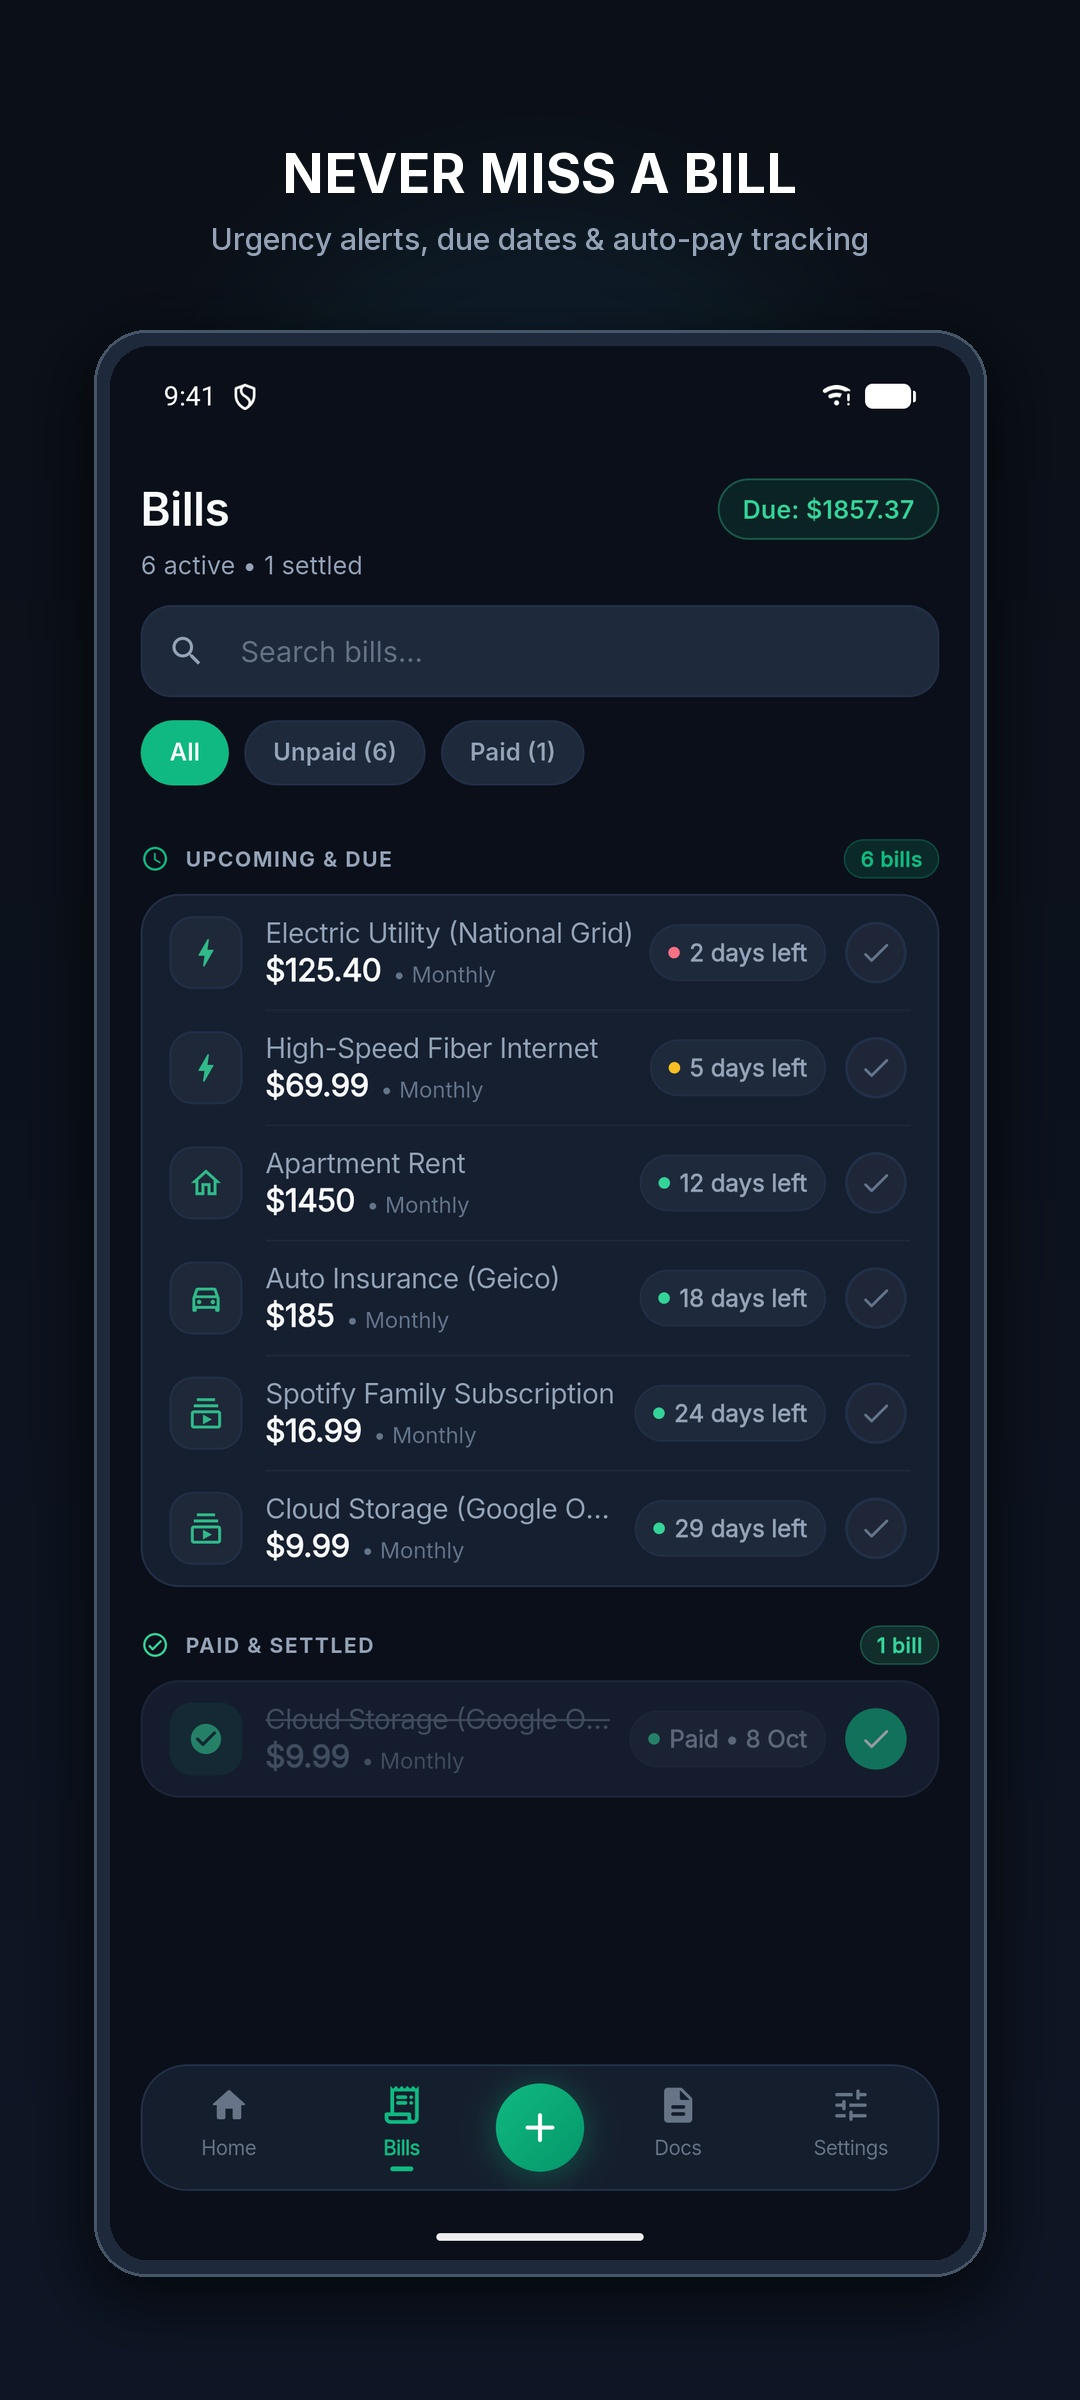
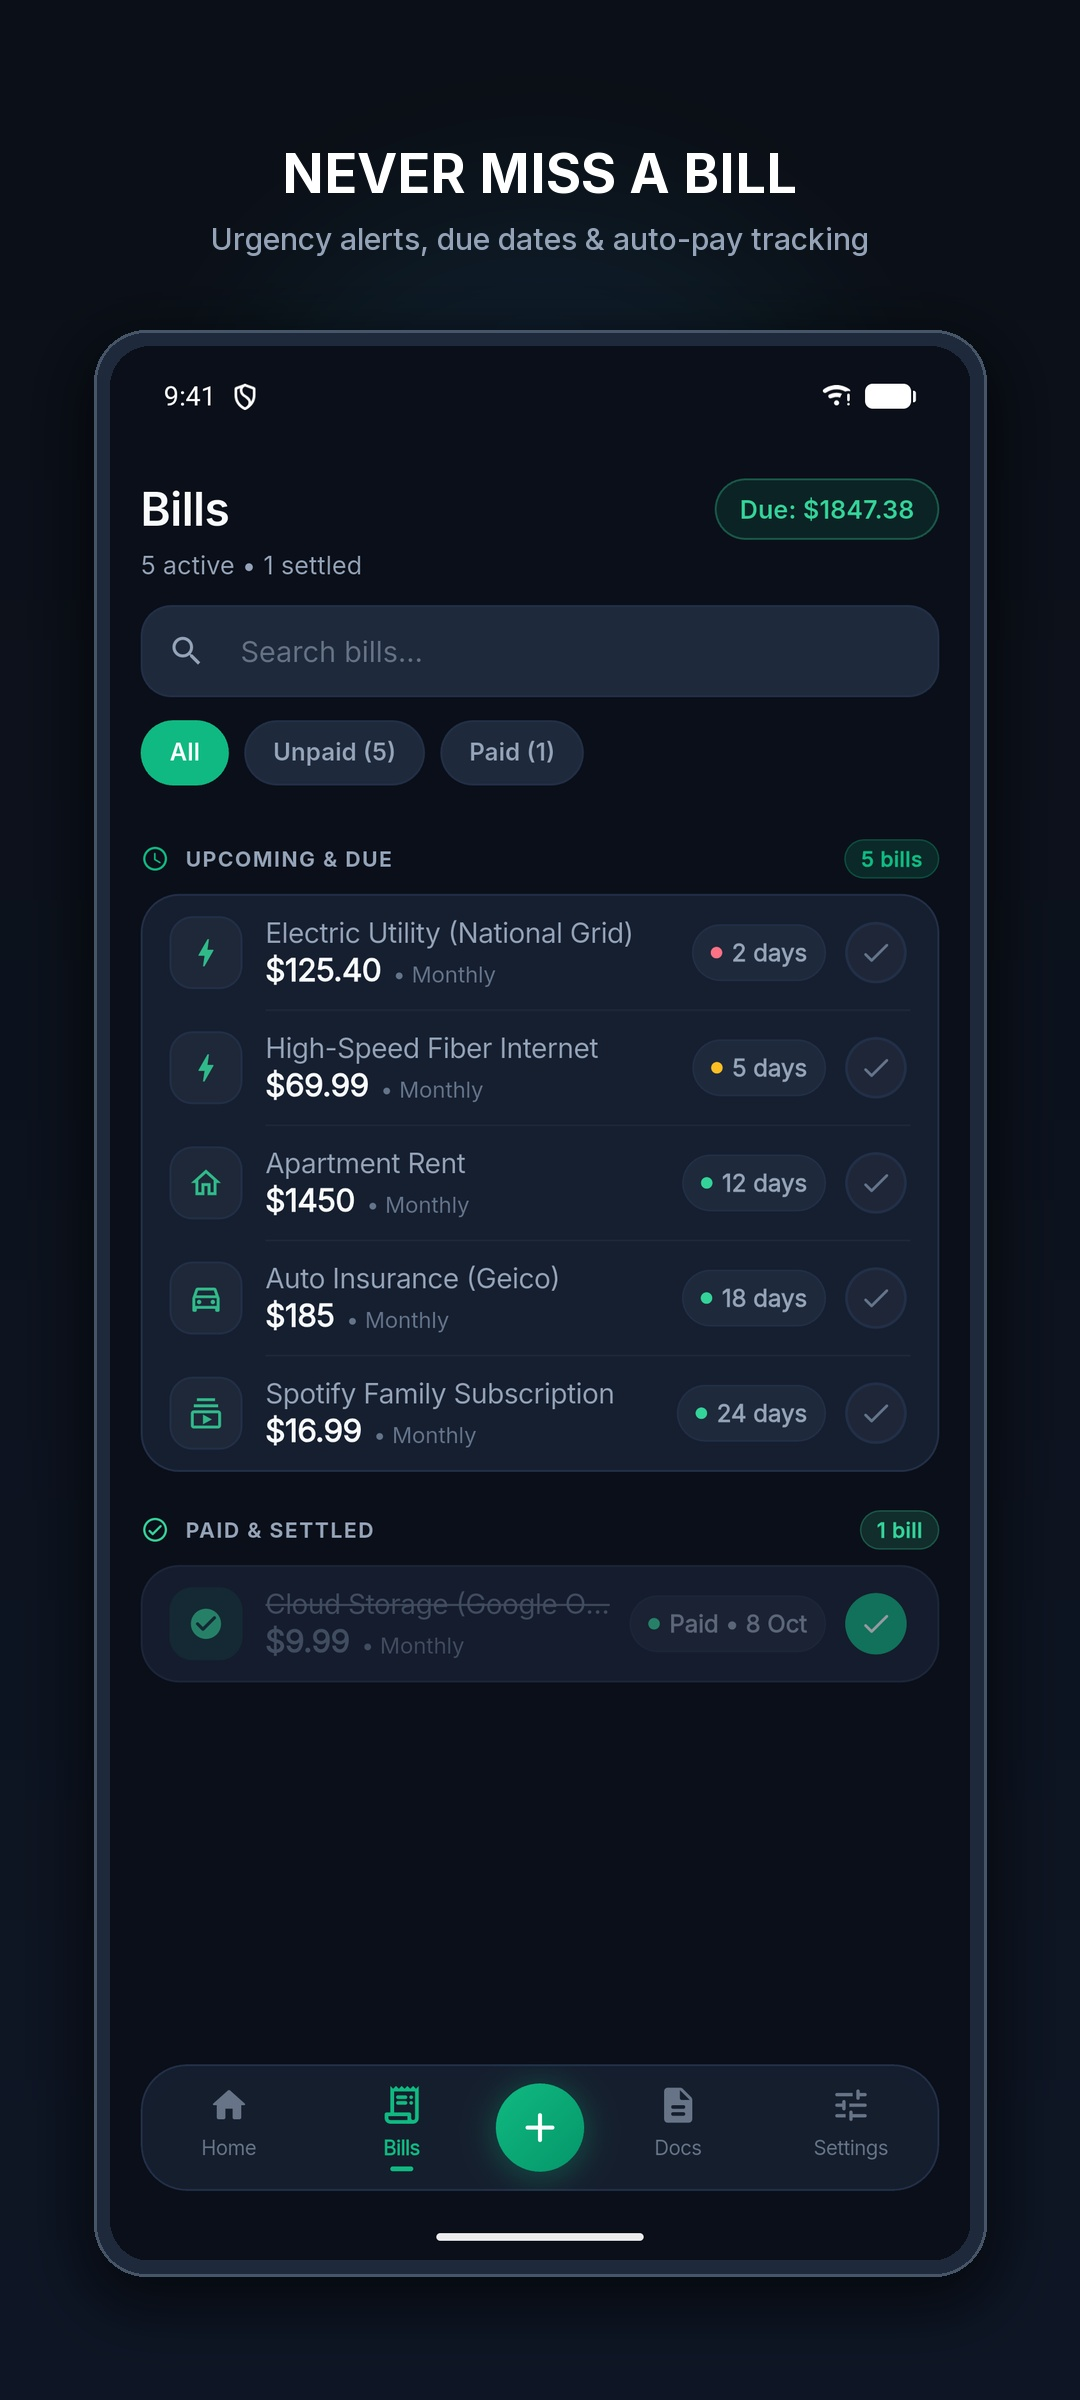
feat: attach bill invoice in details showcase, clean remaining days badge to ' days', bump version to 1.0.1+42

diff --git a/lib/screens/item_detail/item_detail_attachments.dart b/lib/screens/item_detail/item_detail_attachments.dart
@@ -15,10 +15,12 @@ import '../../utils/logger.dart';
 
 class ItemDetailAttachments extends ConsumerStatefulWidget {
   final VaultItem item;
+  final bool showHeader;
 
   const ItemDetailAttachments({
     super.key,
     required this.item,
+    this.showHeader = true,
   });
 
   @override
@@ -317,11 +319,12 @@ class _ItemDetailAttachmentsState extends ConsumerState<ItemDetailAttachments> {
     final cleanName = p.basename(rawName.replaceAll('\\', '/'));
     final absolutePath = '$_attachmentsDirPath/$cleanName';
     final cloudId = index < widget.item.cloudFileIds.length ? widget.item.cloudFileIds[index] : null;
-    final fileExists = File(absolutePath).existsSync();
+    final fileExists = File(absolutePath).existsSync() || File(rawName).existsSync();
+    final effectivePath = File(absolutePath).existsSync() ? absolutePath : rawName;
     final isDownloading = _downloadingPaths[cleanName] == true;
 
     return GestureDetector(
-      onTap: () => _handleAttachmentTap(context, absolutePath, cloudId, cleanName),
+      onTap: () => _handleAttachmentTap(context, effectivePath, cloudId, cleanName),
       child: Stack(
         children: [
           Container(
@@ -334,10 +337,10 @@ class _ItemDetailAttachmentsState extends ConsumerState<ItemDetailAttachments> {
               ),
             ),
             child: fileExists
-                ? _buildAttachmentPreview(absolutePath)
+                ? _buildAttachmentPreview(effectivePath)
                 : Opacity(
                     opacity: 0.5,
-                    child: _buildAttachmentPreview(absolutePath),
+                    child: _buildAttachmentPreview(effectivePath),
                   ),
           ),
           if (!fileExists)
@@ -361,6 +364,37 @@ class _ItemDetailAttachmentsState extends ConsumerState<ItemDetailAttachments> {
                 ),
               ),
             ),
+          // Caption overlay with file name
+          Positioned(
+            left: 0,
+            right: 0,
+            bottom: 0,
+            child: Container(
+              padding: const EdgeInsets.symmetric(horizontal: 8, vertical: 4),
+              decoration: BoxDecoration(
+                color: Colors.black.withValues(alpha: 0.7),
+                borderRadius: const BorderRadius.vertical(bottom: Radius.circular(12)),
+              ),
+              child: Row(
+                children: [
+                  const Icon(Icons.description_outlined, size: 11, color: Colors.white70),
+                  const SizedBox(width: 4),
+                  Expanded(
+                    child: Text(
+                      cleanName,
+                      maxLines: 1,
+                      overflow: TextOverflow.ellipsis,
+                      style: const TextStyle(
+                        color: Colors.white,
+                        fontSize: 9.5,
+                        fontWeight: FontWeight.w600,
+                      ),
+                    ),
+                  ),
+                ],
+              ),
+            ),
+          ),
         ],
       ),
     );
@@ -375,11 +409,13 @@ class _ItemDetailAttachmentsState extends ConsumerState<ItemDetailAttachments> {
     return Column(
       crossAxisAlignment: CrossAxisAlignment.start,
       children: [
-        Text(
-          'ATTACHMENTS (${widget.item.attachedFiles.length})',
-          style: AppTheme.labelCapsStyle(context),
-        ),
-        const SizedBox(height: 12),
+        if (widget.showHeader) ...[
+          Text(
+            'ATTACHMENTS (${widget.item.attachedFiles.length})',
+            style: AppTheme.labelCapsStyle(context),
+          ),
+          const SizedBox(height: 12),
+        ],
         GridView.builder(
           shrinkWrap: true,
           physics: const NeverScrollableScrollPhysics(),

diff --git a/lib/widgets/vault_item_tile.dart b/lib/widgets/vault_item_tile.dart
@@ -61,9 +61,9 @@ class VaultItemTile extends ConsumerWidget {
     }
     if (days == 0) return 'Today';
     if (days == 1) return 'Tomorrow';
-    // Până la 3 luni -> '14 days left', '23 days left', etc.
+    // Până la 3 luni -> '14 days', '23 days', etc.
     if (days <= 90) {
-      return '$days days left';
+      return days == 1 ? '1 day' : '$days days';
     }
     // Peste 3 luni, până la 1 an -> '3 months', '11 months', etc.
     if (days <= 365) {

diff --git a/lib/screens/item_detail_screen.dart b/lib/screens/item_detail_screen.dart
@@ -162,7 +162,7 @@ class _ItemDetailScreenState extends ConsumerState<ItemDetailScreen> {
                       ],
                     ),
                     const SizedBox(height: AppSpacing.md),
-                    ItemDetailAttachments(item: currentItem),
+                    ItemDetailAttachments(item: currentItem, showHeader: false),
                   ],
                 ),
               ),

diff --git a/lib/services/vault_guest_manager.dart b/lib/services/vault_guest_manager.dart
@@ -156,6 +156,8 @@ class VaultGuestManager {
         ..amount = 125.40
         ..dueDate = now.add(const Duration(days: 2))
         ..recurrence = 'Monthly'
+        ..notes = 'Account #8492-3011-948 • Monthly electric utility charges.'
+        ..attachedFiles = ['invoice_electric_oct.jpg']
         ..isPaid = false
         ..isSample = true
         ..ownerId = ownerId,

diff --git a/tool/generate_sample_invoice.py b/tool/generate_sample_invoice.py
@@ -1,0 +1,100 @@
+import os
+from PIL import Image, ImageDraw, ImageFont
+
+def generate_invoice(output_path):
+    W, H = 800, 1100
+    img = Image.new("RGB", (W, H), (248, 250, 252))
+    draw = ImageDraw.Draw(img)
+
+    # Fonts
+    font_dir = r"d:\Aplicatii\DueVault_app\google_fonts"
+    font_bold_path = os.path.join(font_dir, "Inter-Bold.ttf")
+    font_reg_path = os.path.join(font_dir, "Inter-Medium.ttf")
+    
+    font_h1 = ImageFont.truetype(font_bold_path, 32)
+    font_h2 = ImageFont.truetype(font_bold_path, 22)
+    font_body = ImageFont.truetype(font_reg_path, 18)
+    font_body_bold = ImageFont.truetype(font_bold_path, 18)
+    font_sm = ImageFont.truetype(font_reg_path, 14)
+    font_total = ImageFont.truetype(font_bold_path, 34)
+
+    # Document border / sheet margin
+    draw.rounded_rectangle([20, 20, W - 20, H - 20], radius=16, fill=(255, 255, 255), outline=(226, 232, 240), width=2)
+
+    # Header Banner
+    draw.rounded_rectangle([40, 40, W - 40, 140], radius=12, fill=(15, 23, 42)) # Slate 900
+    # Emerald accent bar
+    draw.rounded_rectangle([40, 40, 56, 140], radius=6, fill=(16, 185, 129))
+
+    draw.text((75, 58), "NATIONAL GRID", font=font_h1, fill=(255, 255, 255))
+    draw.text((75, 98), "ELECTRIC SERVICE STATEMENT • MONTHLY BILL", font=font_sm, fill=(148, 163, 184))
+
+    # Statement Details Box
+    draw.text((50, 170), "Statement Date: Oct 02, 2026", font=font_body, fill=(71, 85, 105))
+    draw.text((50, 200), "Account Number: 8492-3011-948", font=font_body_bold, fill=(15, 23, 42))
+    draw.text((50, 230), "Address: 742 Evergreen Terr.", font=font_body, fill=(71, 85, 105))
+
+    # Due date badge on the right
+    draw.rounded_rectangle([W - 320, 170, W - 50, 260], radius=10, fill=(254, 242, 242), outline=(254, 202, 202), width=1)
+    draw.text((W - 300, 185), "DUE DATE", font=font_sm, fill=(220, 38, 38))
+    draw.text((W - 300, 210), "October 12, 2026", font=font_h2, fill=(185, 28, 28))
+
+    # Divider
+    draw.line([(50, 280), (W - 50, 280)], fill=(226, 232, 240), width=2)
+
+    # Charges Breakdown Table Header
+    draw.rounded_rectangle([50, 300, W - 50, 345], radius=8, fill=(241, 245, 249))
+    draw.text((70, 312), "DESCRIPTION", font=font_body_bold, fill=(71, 85, 105))
+    draw.text((W - 170, 312), "AMOUNT", font=font_body_bold, fill=(71, 85, 105))
+
+    # Table Rows
+    rows = [
+        ("Base Delivery Service (Electric Grid Maintenance)", "$38.50"),
+        ("Energy Distribution Rate (Meter #99402)", "$15.70"),
+        ("Electric Supply Charges (412 kWh @ $0.1483)", "$61.10"),
+        ("Clean Energy Transition Surcharge", "$4.20"),
+        ("State & Local Regulatory Taxes", "$5.90"),
+    ]
+
+    y = 370
+    for desc, amt in rows:
+        draw.text((70, y), desc, font=font_body, fill=(51, 65, 85))
+        amt_w = draw.textlength(amt, font=font_body_bold)
+        draw.text((W - 70 - amt_w, y), amt, font=font_body_bold, fill=(15, 23, 42))
+        y += 50
+        draw.line([(70, y - 10), (W - 70, y - 10)], fill=(241, 245, 249), width=1)
+
+    # Total Box
+    draw.rounded_rectangle([50, 640, W - 50, 750], radius=12, fill=(248, 250, 252), outline=(203, 213, 225), width=2)
+    draw.text((80, 665), "TOTAL AMOUNT DUE", font=font_h2, fill=(100, 116, 139))
+    draw.text((80, 700), "Payable to National Grid LLC", font=font_sm, fill=(148, 163, 184))
+
+    total_str = "$125.40"
+    total_w = draw.textlength(total_str, font=font_total)
+    draw.text((W - 80 - total_w, 672), total_str, font=font_total, fill=(16, 185, 129))
+
+    # Notes section
+    draw.rounded_rectangle([50, 780, W - 50, 890], radius=10, fill=(248, 250, 252))
+    draw.text((70, 795), "PAYMENT INSTRUCTIONS & REMARKS", font=font_sm, fill=(100, 116, 139))
+    draw.text((70, 825), "Auto-pay is not scheduled. Please process payment before Oct 12.", font=font_body, fill=(51, 65, 85))
+    draw.text((70, 855), "Online: nationalgrid.com/pay • Phone: 1-800-322-3223", font=font_body, fill=(71, 85, 105))
+
+    # Mock Barcode at bottom
+    bx = 100
+    by = 940
+    import random
+    rng = random.Random(42)
+    while bx < W - 100:
+        bar_w = rng.choice([2, 3, 5, 7])
+        gap = rng.choice([2, 4, 6])
+        draw.rectangle([bx, by, bx + bar_w, by + 65], fill=(30, 41, 59))
+        bx += bar_w + gap
+
+    draw.text((W // 2 - 120, 1020), "* 8 4 9 2 3 0 1 1 9 4 8 0 1 2 5 4 0 *", font=font_sm, fill=(148, 163, 184))
+
+    img.save(output_path, "JPEG", quality=95)
+    print(f"Generated sample invoice: {output_path}")
+
+if __name__ == "__main__":
+    out = os.path.join(r"d:\Aplicatii\DueVault_app\play_store_assets", "sample_invoice.jpg")
+    generate_invoice(out)

diff --git a/tool/generate_play_store_showcases.py b/tool/generate_play_store_showcases.py
@@ -215,6 +215,6 @@ if __name__ == "__main__":
         create_showcase(
             detail_screen,
             os.path.join(ASSETS_DIR, "7_showcase_5_detail.jpg"),
-            "DETAILED BILL TIMELINE",
-            "Urgency tags, payment intervals & one-tap settling"
+            "DETAILED BILL BREAKDOWN",
+            "Attached invoices, urgency alerts & one-tap settling"
         )
